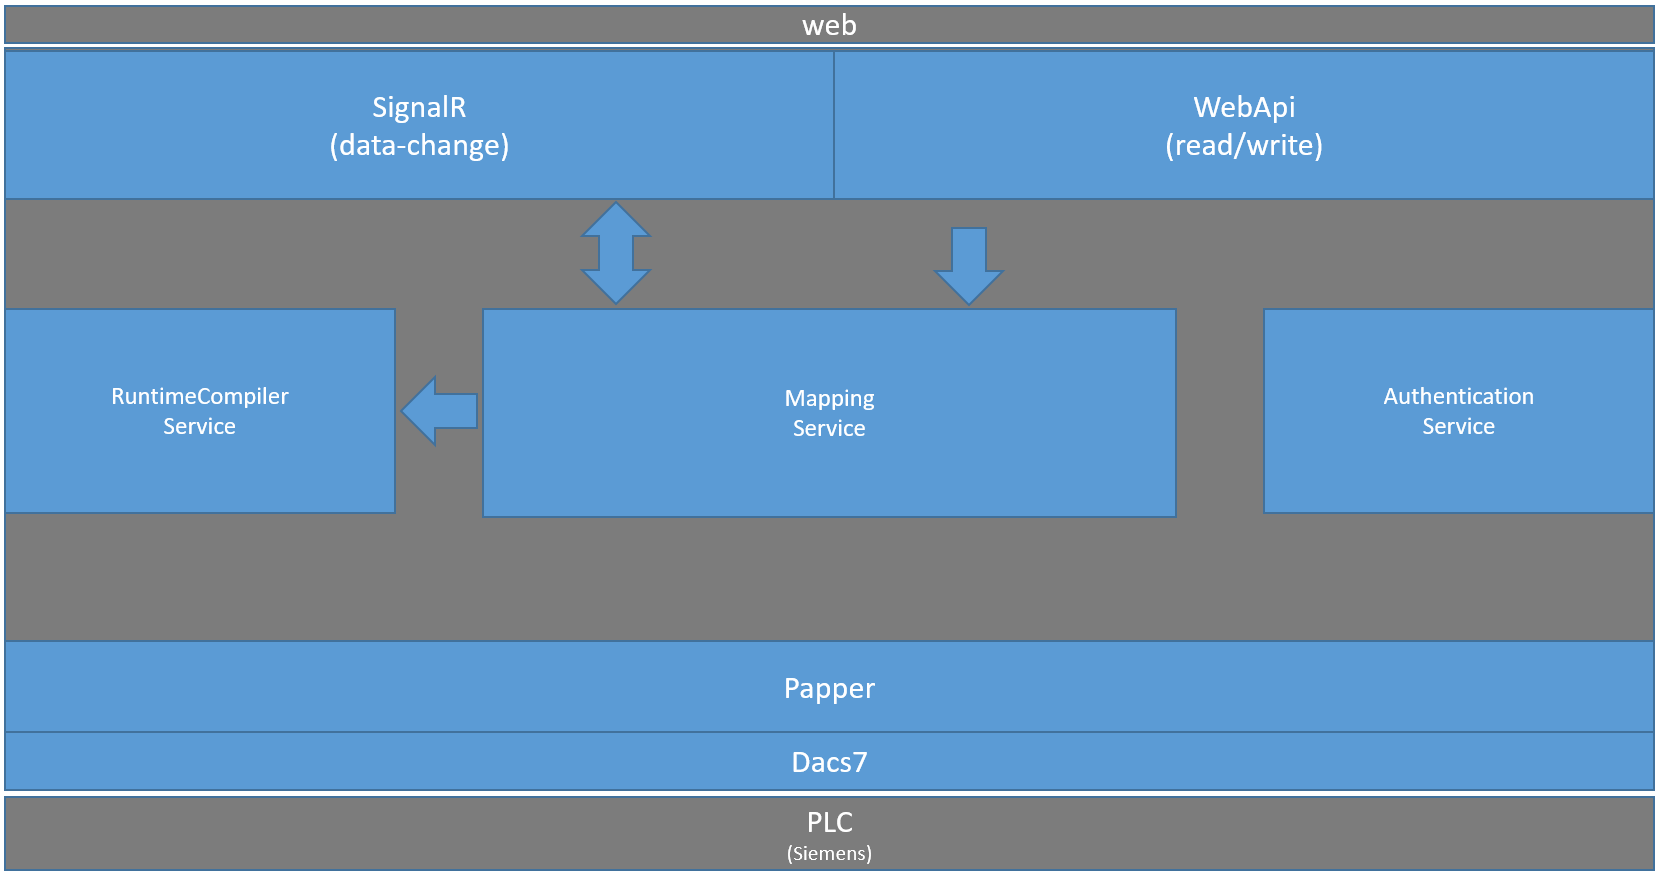
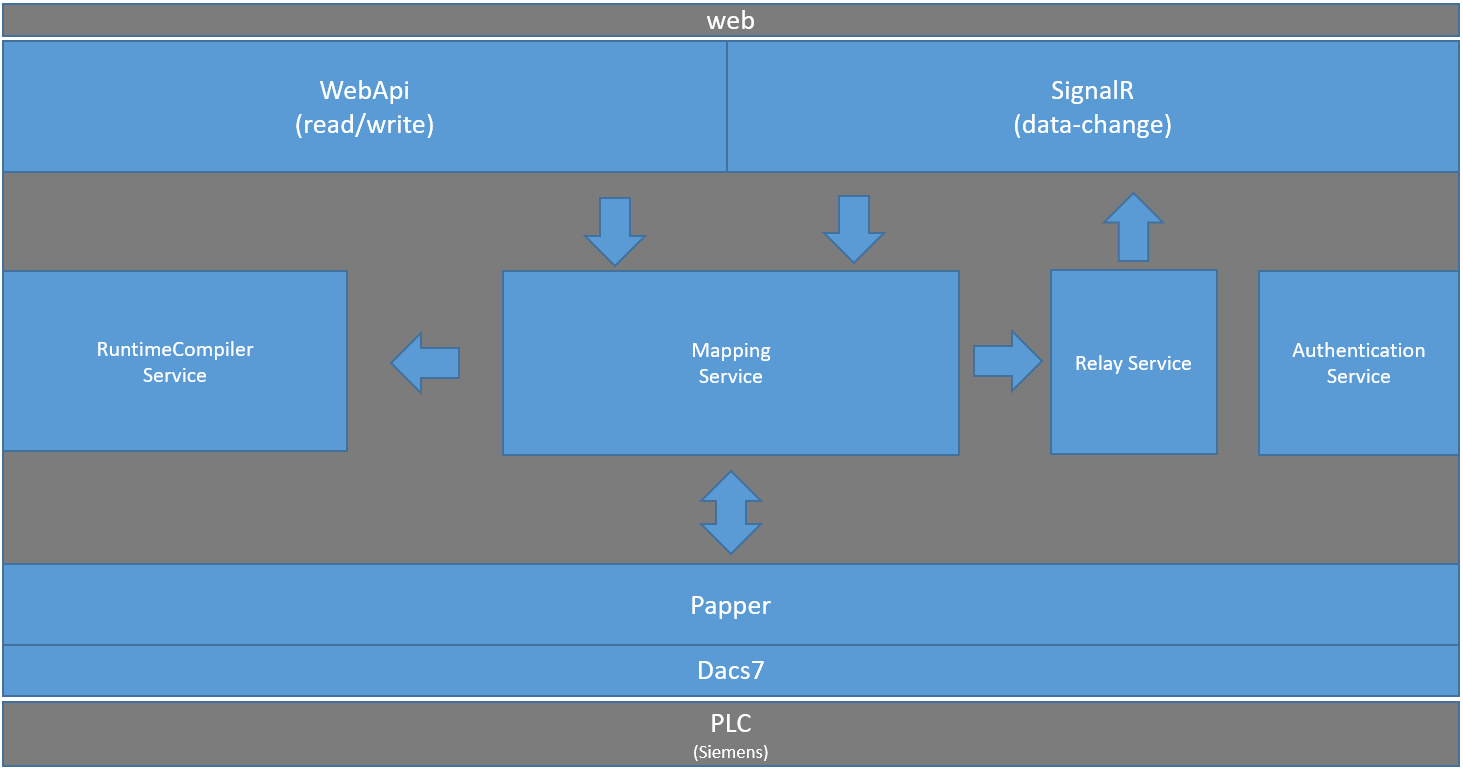
Update images and readme

diff --git a/README.md b/README.md
@@ -87,17 +87,102 @@ To visualize and test the web api we added swagger support.
 ![System Overview](./images/Swagger.PNG)
 
 
+##Configuration
+
+The configuration file named 'appsettings.json' has the configuration settings for Logging, Plc, RuntimeCompiler and the Authentication.
+
+### Logging
+
+```c#
+  "Logging": {
+    "IncludeScopes": false,
+    "LogLevel": {
+      "Default": "Information",
+      "System": "Information",
+      "Microsoft": "Information"
+    }
+  }
+```
+
+### Plc
+
+This section specifies the connection parameter to the PLC.
+
+```c#
+  "Plc": {
+    "ConnectionString": "Data Source=127.0.0.1:102,0,2",
+    "ConnectOnStartup": true,
+    "ReconnectOnConnectionLost": true,
+    "ReconnectIntervall":  5000
+  }
+```
+
+*   *ConnectionString*: Defines the address to the PLC. Syntax: [IP]:[PORT],[RACK],[SLOT]
+*   *ConnectOnStartup*: If this value is *true*, webpac try connecting to PLC at the application start.
+*   *ReconnectOnConnectionLost*: If this value is *true*, webpac tries to reconnect, when PLC connection goes down.
+*   *ConnectReconnectIntervallOnStartup*: This value specifies the connection retry interval.
+
+### RuntimeCompiler
+
+```c#
+  "RuntimeCompiler": {
+    "Location": "C:\\webpac\\data",
+    "Usings": [
+      "System",
+      "Papper.Attributes"
+    ]
+  }
+```
+*   *Location*: This value specifies the Location of the symbolic file (C# class files).
+*   *Usings*: This is an array of usings depending of the class files you want compile.
+
+
+### Authentication
+
+```c#
+  "Auth": {
+    "KeyFile": "C:\\webpac\\data\\sec.key",
+    "TokenValidatenTimeinMinutes": 1440 ,
+    "Users": [
+      {
+        "Type": "ReadOnly",
+        "Username": "ReadOnlyUsername",
+        "Password": "ReadOnlyPassword"
+      },
+      {
+        "Type": "ReadWrite",
+        "Username": "ReadWriteUsername",
+        "Password": "ReadWritePassword"
+      }
+    ]
+  }
+```
+
+*   *KeyFile*: This value specifies the Location of the key file for the authentication token (this file will be created on first start).
+*   *TokenValidatenTimeinMinutes*: This value specifies the validation time of the token.
+*   *Users.Type*: Select the access level for the api calls [Valid parameters are ReadOnly, ReadWrite]
+*   *Users.Username*: Name of the user for sign in.
+*   *Users.Password*: Password for the specified user.
+
+
+
 ##Used Libraries
 
-To get the PLC access we use two libraries.
+To get the PLC access we use two libraries as the following image describe.
+
+![Library communication](./images/webpactoplc.PNG)
+
+###Papper
+
+[Papper](http://proemmer.github.io/papper) is a data mapper which maps a C# class to a PLC data block.
+This package is also available as a [nuget](https://www.nuget.org/packages/Papper/) package.
+
 
 ### Dacs7
 
 [DacS7](http://proemmer.github.io/dacs7/) is a low level component which handles the communication to the 
 PLC and is available as a [nuget](https://www.nuget.org/packages/Dacs7/) package.
 
-###Papper
 
-[Papper](http://proemmer.github.io/papper) is a data mapper which maps a C# class to a PLC data block.
-This package is also available as a [nuget](https://www.nuget.org/packages/Papper/) package.
+
 
